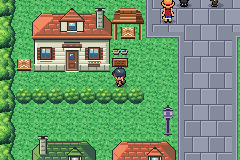
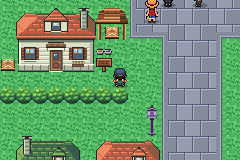
Fuji at his door: the stranger waits at (9,16), where he blocks nothing
The owner (10 November) moved MW03's stranger from (7,17), in the one-block lane
in front of Mr. Fuji's house, to (9,16), past the Volunteer House sign. The night
Gastly there floats at (11,17), in the grass corner by the road. Story check step
201 walks the usual way again; the two MW03 tests talk to him from below.

Claude-Session: https://claude.ai/code/session_01XMJF17U18XtbfGGgKpeJmb

diff --git a/project/scripts/story_check.py b/project/scripts/story_check.py
@@ -687,12 +687,8 @@ STEPS = [
     # Snorlax, Routes 12 to 15 and Fuchsia
     dict(name="fuji-house-out", what="Out of Mr. Fuji's house", walk=(4, 6), inputs=f"DOWN*{hold(1)}, wait 20, DOWN*20, wait 250",
          expect=dict(map="LavenderTown_Frlg")),
-    # MW03's stranger waits beside Fuji's door now (7,17), in the lane out east: round by the west lane and the road
-    # north of the Friends' camp (FG08's, on the square), as a player who doesn't stop to talk to him goes
-    dict(name="route12", what="Round by the west lane (the stranger waits in the lane east of Mr. Fuji's door), "
-         "along the road past the Friends' camp and down Lavender's south road onto Route 12",
-         via=[(2, 12), (17, 11), (17, 16)], walk=(13, 31),
-         inputs=f"DOWN*{hold(1)}, wait 200", expect=dict(map="Route12_Frlg")),
+    dict(name="route12", what="Down Lavender's south road onto Route 12", walk=(13, 31), inputs=f"DOWN*{hold(1)}, wait 200",
+         expect=dict(map="Route12_Frlg")),
     dict(name="route12-gate", what="Down Route 12's lane into its gatehouse", walk=(11, 9),
          inputs=f"DOWN*{hold(1)}, wait 20, DOWN*20, wait 250",
          expect=dict(map="Route12_NorthEntrance_1F_Frlg", xy=(5, 2))),

diff --git a/project/docs/kanto-rebuild.md b/project/docs/kanto-rebuild.md
@@ -191,4 +191,4 @@ Found while rebuilding; nothing here is fixed unless it says so. Newest last wit
 | KR-107 | Kanto's wild Pokémon are Kanto's own, and Oak's National Pokédex comes with becoming Champion (the owner: "Kanto's wild list should be Kanto only and Oaks Pokedex upgrade should be tied to becoming the champion"). The seven night tables `add_kanto_night_encounters.py` made before the rebuild (Hoothoot for Pidgey on Routes 1, 2, 5 and 25, Noctowl for Pidgeotto on Routes 13–15, land only) are gone, so those routes have FireRed's own Pokémon at every hour; Cerulean Cave's Wobbuffet (1F, 2F, B1F, one slot each) is Kadabra, as Red and Blue had there. No mainland Kanto table has a Pokémon from outside Kanto's Pokédex now; the Sevii Islands keep FireRed's own Johto Pokémon (its post-game islands). Oak meets the new Champion outside the house after the Hall of Fame, says Kanto has a new Champion and takes them to his lab for the National Pokédex: FireRed's One Island visit and 60 Pokémon caught are gone (and with them his "come back when you've caught more" and "enjoying traveling" lines). Checked in the game on the rebuilt Pallet: Oak's walk to the door and to the lab, and the lab's scene to the upgrade. | Routes 1, 2, 5, 13–15, 25, Cerulean Cave, Pallet | done |
 | KR-108 | What KR-106 and KR-107 broke, fixed (found by the 6 November story check, GAP-1, 3 and 4). Route 24's Charmander, the ST03 rescue's own, had become a Caterpie that asked to be battled: it is the Charmander again, and `overworld_mons.py` leaves any Pokémon with a local id alone (a story scene's actor, not a walker). After the Hall of Fame Oak no longer hears "word" of the win he watched: he welcomes the Champion home. Blue's first "great battle" comes in the National Dex scene, he no longer says he'll look round One Island, and his next lab line (BL01) follows on from it. Oak's "That bird flew west" (RB07) and the whole road to ELM play on the first talk after the scene and only once (`FLAG_OAK_GAVE_JOHTO_DIRECTIONS`, FireRed's unused flag 0x0AF); later talks start with a short reminder until ELM is met. A save made Champion before KR-107 gets the National Dex without 60 caught or One Island. The new lines are plain stand-ins for the owner's OK (the story copy pass may replace them). | Route 24, Pallet, Oak's lab | done |
 | KR-109 | Story scenes that couldn't play right on the rebuilt maps (the 6 November story check, GAP-5, 6 and 7). **The Silph scientist's line (RB06)**: he waited for `FLAG_HIDE_SILPH_ROCKETS`, which nothing sets, and Celadon hid him once the Rocket Hideout was cleared, so the line never played. Now he looks for the stolen Silph Scope until the Hideout is cleared, is away until Silph Co. is freed (`FLAG_HIDE_SAFFRON_ROCKETS`, set by Giovanni's defeat there), then is back with the line about Rocket's devices (`FLAG_TEMP_15`, Celadon's own visibility script). **The Friends' camps**: talking to the seven from a tile the scene needs (a visitor's slot, a walk, Giratina's) ended the scene without a word on 9 of the 11 Kanto camps; the scene's check also counted the player twice. Now the player steps back (or to one side), still facing the friend, and the scene plays (`Special_FriendsStoryMakeRoom`, `FG_MakeRoom`). On Cinnabar the volcano island's six walkers wander 2 tiles from their spots instead of anywhere, so they can't stand on Giratina's. **LB's walk** at the Friends' arrival no longer goes through Viridian's town sign: one step onto the road behind Ham, then north. | Celadon, the Friends' camps, Cinnabar, Viridian | done |
-| KR-116 | MW03 staged at Mr. Fuji's door (the story copy's section D, decisions 8 and 9, approved 9 November). The stranger in Lavender stood at (10,16), by the Friends' camp, and Fuji answered him from inside his house, where the player couldn't see him. Now the stranger waits beside Fuji's door at (7,17), facing it; talked to, the door opens, a Psyduck wanders out and goes back in, and Fuji steps out to (5,17) to answer him, with one added line, "I learned that late." (decision 9's optional second line on Route 22 is left out, as the copy advised), then goes back in and the door closes. Fuji and the Psyduck are the scene's own actors (`LOCALID_LAVENDER_MW03_FUJI`, `…_PSYDUCK`, appended to Lavender's objects, hidden by `FLAG_TEMP_1D` until the scene adds them); the Fuji in his house doesn't move. The night Gastly that stood on (7,17) floats at (9,16) now, beside the Volunteer House sign. The lane in front of Fuji's house (row 17) is one block wide, so while the stranger waits (from the Poké Flute until he is talked to) the way between Fuji's door and the town is round by the west lane and the road north of the Friends' camp; story check step 201 walks it. FG08 (the Friends' camp on the square) plays as before. | Lavender | done |
+| KR-116 | MW03 staged at Mr. Fuji's door (the story copy's section D, decisions 8 and 9, approved 9 November). The stranger in Lavender stood at (10,16), by the Friends' camp, and Fuji answered him from inside his house, where the player couldn't see him. Now the stranger waits near Fuji's door at (9,16), past the Volunteer House sign, facing it (the owner, 10 November: move him to (9,16) "so he blocks nothing"); talked to, the door opens, a Psyduck wanders out and goes back in, and Fuji steps out to (5,17) to answer him, with one added line, "I learned that late." (decision 9's optional second line on Route 22 is left out, as the copy advised), then goes back in and the door closes. Fuji and the Psyduck are the scene's own actors (`LOCALID_LAVENDER_MW03_FUJI`, `…_PSYDUCK`, appended to Lavender's objects, hidden by `FLAG_TEMP_1D` until the scene adds them); the Fuji in his house doesn't move. The night Gastly that stood on (7,17), in the one-block lane in front of Fuji's house, floats at (11,17) now, in the grass corner by the road, off the lane and off the stranger's block; the lane and the grass east of the sign stay open, so story check step 201 walks the usual way. FG08 (the Friends' camp on the square) plays as before. | Lavender | done |

diff --git a/project/docs/story-sanity-check.md b/project/docs/story-sanity-check.md
@@ -258,7 +258,7 @@ Checkpoints are game saves, so they still load after a map change, as long as th
 | 198 | `mr-fuji` | Up to Mr. Fuji: he thanks you and goes home, and you with him | Lavender Town Volunteer Pokémon House | `FLAG_RESCUED_MR_FUJI` set |
 | 199 | `poke-flute` | Up to Mr. Fuji in his house: he gives you the Poké Flute | Lavender Town Volunteer Pokémon House | `FLAG_GOT_POKE_FLUTE` set |
 | 200 | `fuji-house-out` | Out of Mr. Fuji's house | Lavender Town |  |
-| 201 | `route12` | Round by the west lane (the stranger waits in the lane east of Mr. Fuji's door), along the road past the Friends' camp and down Lavender's south road onto Route 12 | Route 12 |  |
+| 201 | `route12` | Down Lavender's south road onto Route 12 | Route 12 |  |
 | 202 | `route12-gate` | Down Route 12's lane into its gatehouse | Route 12 North Entrance 1F 5,2 |  |
 | 203 | `route12-bridge` | Through the gatehouse and out of its south door onto the bridge | Route 12 11,14 |  |
 | 204 | `snorlax` | Down the Silence Bridge (its middle lane, past the fishers' lines) to the sleeping Snorlax; play the Poké Flute: it wakes and battles, and is gone | Route 12 17,47 | `FLAG_WOKE_UP_ROUTE_12_SNORLAX` set |

diff --git a/project/docs/campaign-story-and-progression-guide.md b/project/docs/campaign-story-and-progression-guide.md
@@ -628,7 +628,7 @@ Fossil-choice question and small psychic rock movement.
 
 ### MW03 — A home, not a cage
 
-**Trigger:** Original Poké Flute receipt; own scene unseen; suppressed by MW06 or native Mewtwo closure. The stranger (`LOCALID_LAVENDER_MW03_STRANGER`) waits beside Mr. Fuji's door, at (7,17), facing it. No permanent Fuji relocation.
+**Trigger:** Original Poké Flute receipt; own scene unseen; suppressed by MW06 or native Mewtwo closure. The stranger (`LOCALID_LAVENDER_MW03_STRANGER`) waits near Mr. Fuji's door, at (9,16) past the Volunteer House sign, facing it; he blocks no path. No permanent Fuji relocation.
 
 **Status:** IMPLEMENTED. Historical 30-series native scope; staged at Fuji's door 2026-11-09 (story copy D, KR-116). Replay tests `lavender fuji at his door`, `lavender gentleman`; `lavender the friends camp` plays FG08 with the stranger beside the door.
 
